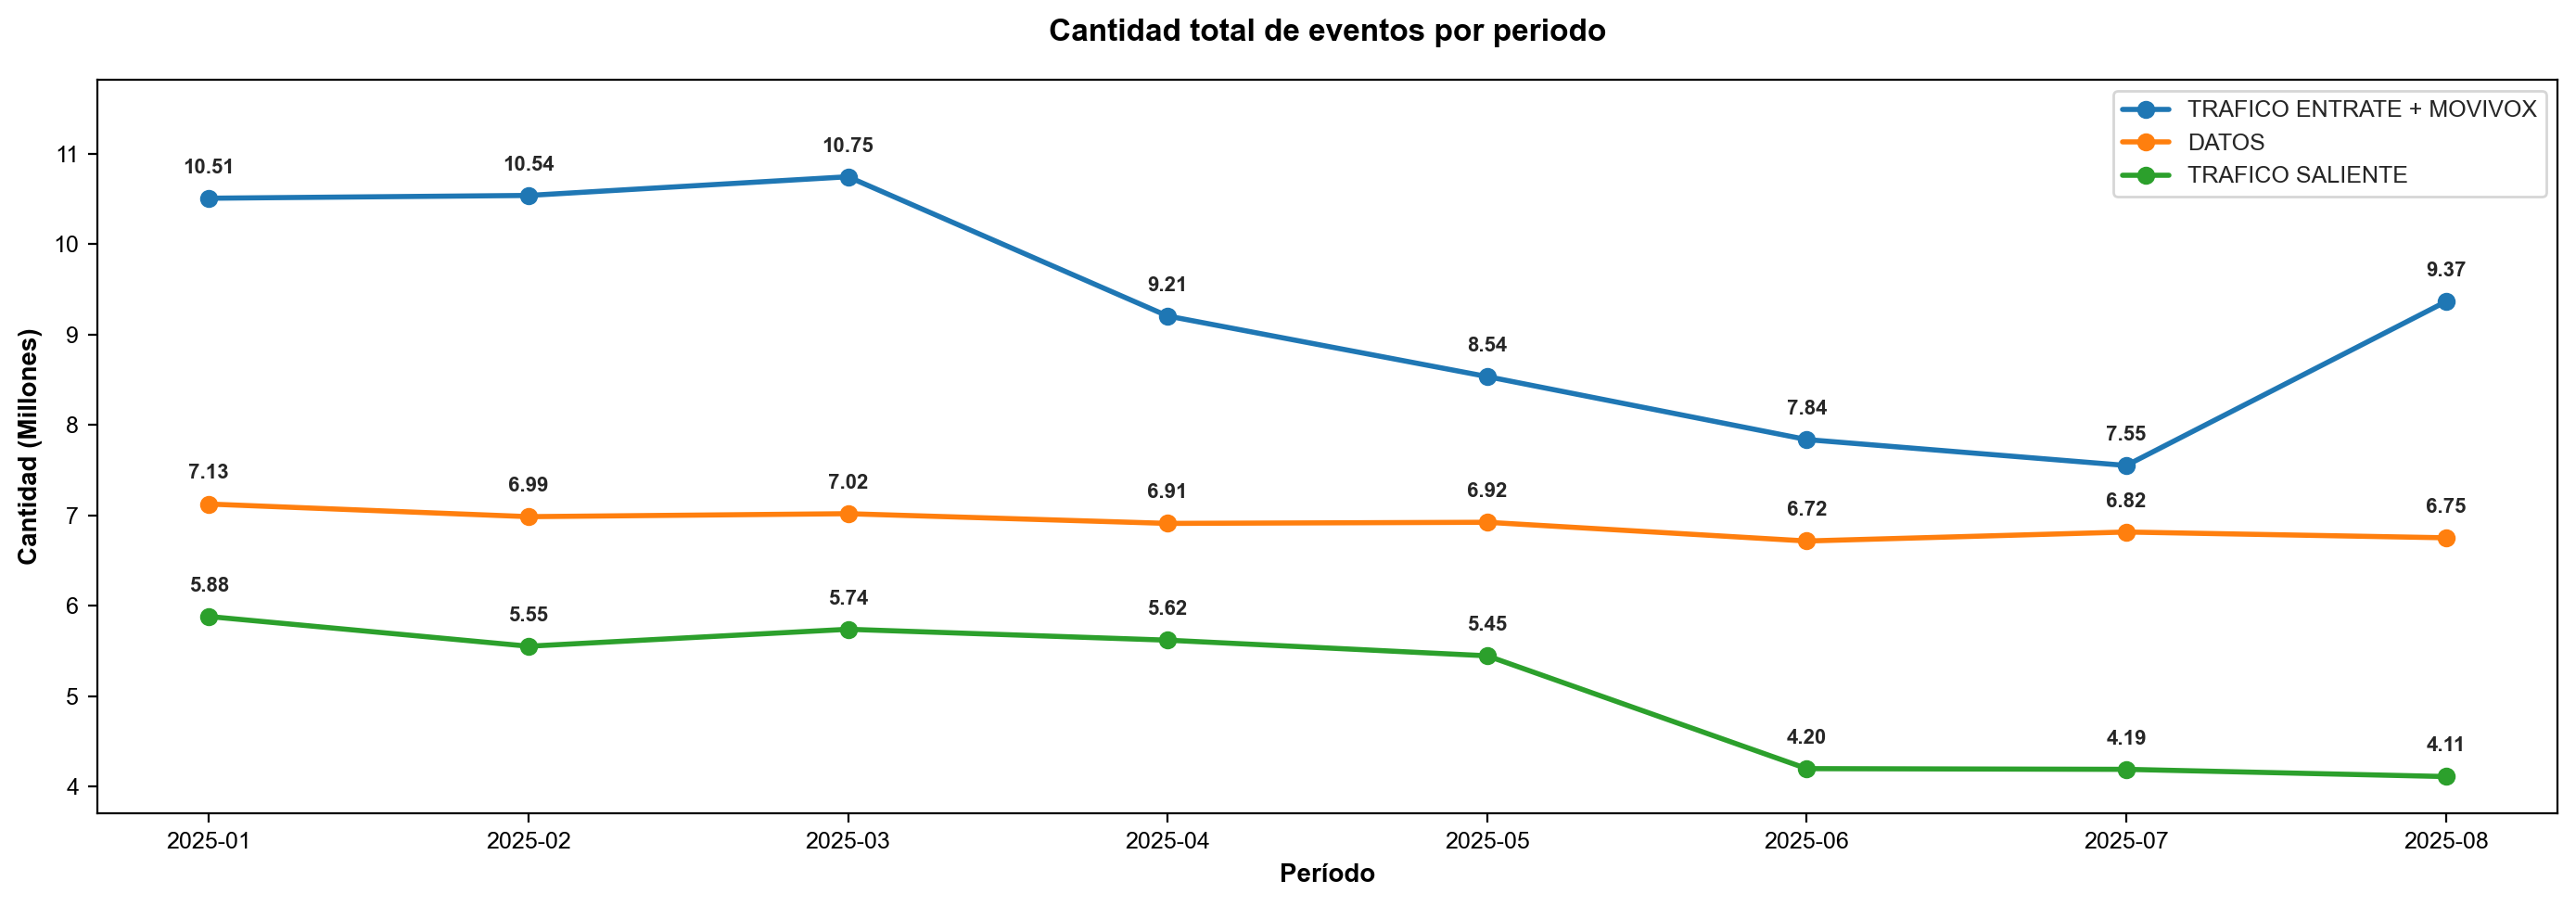
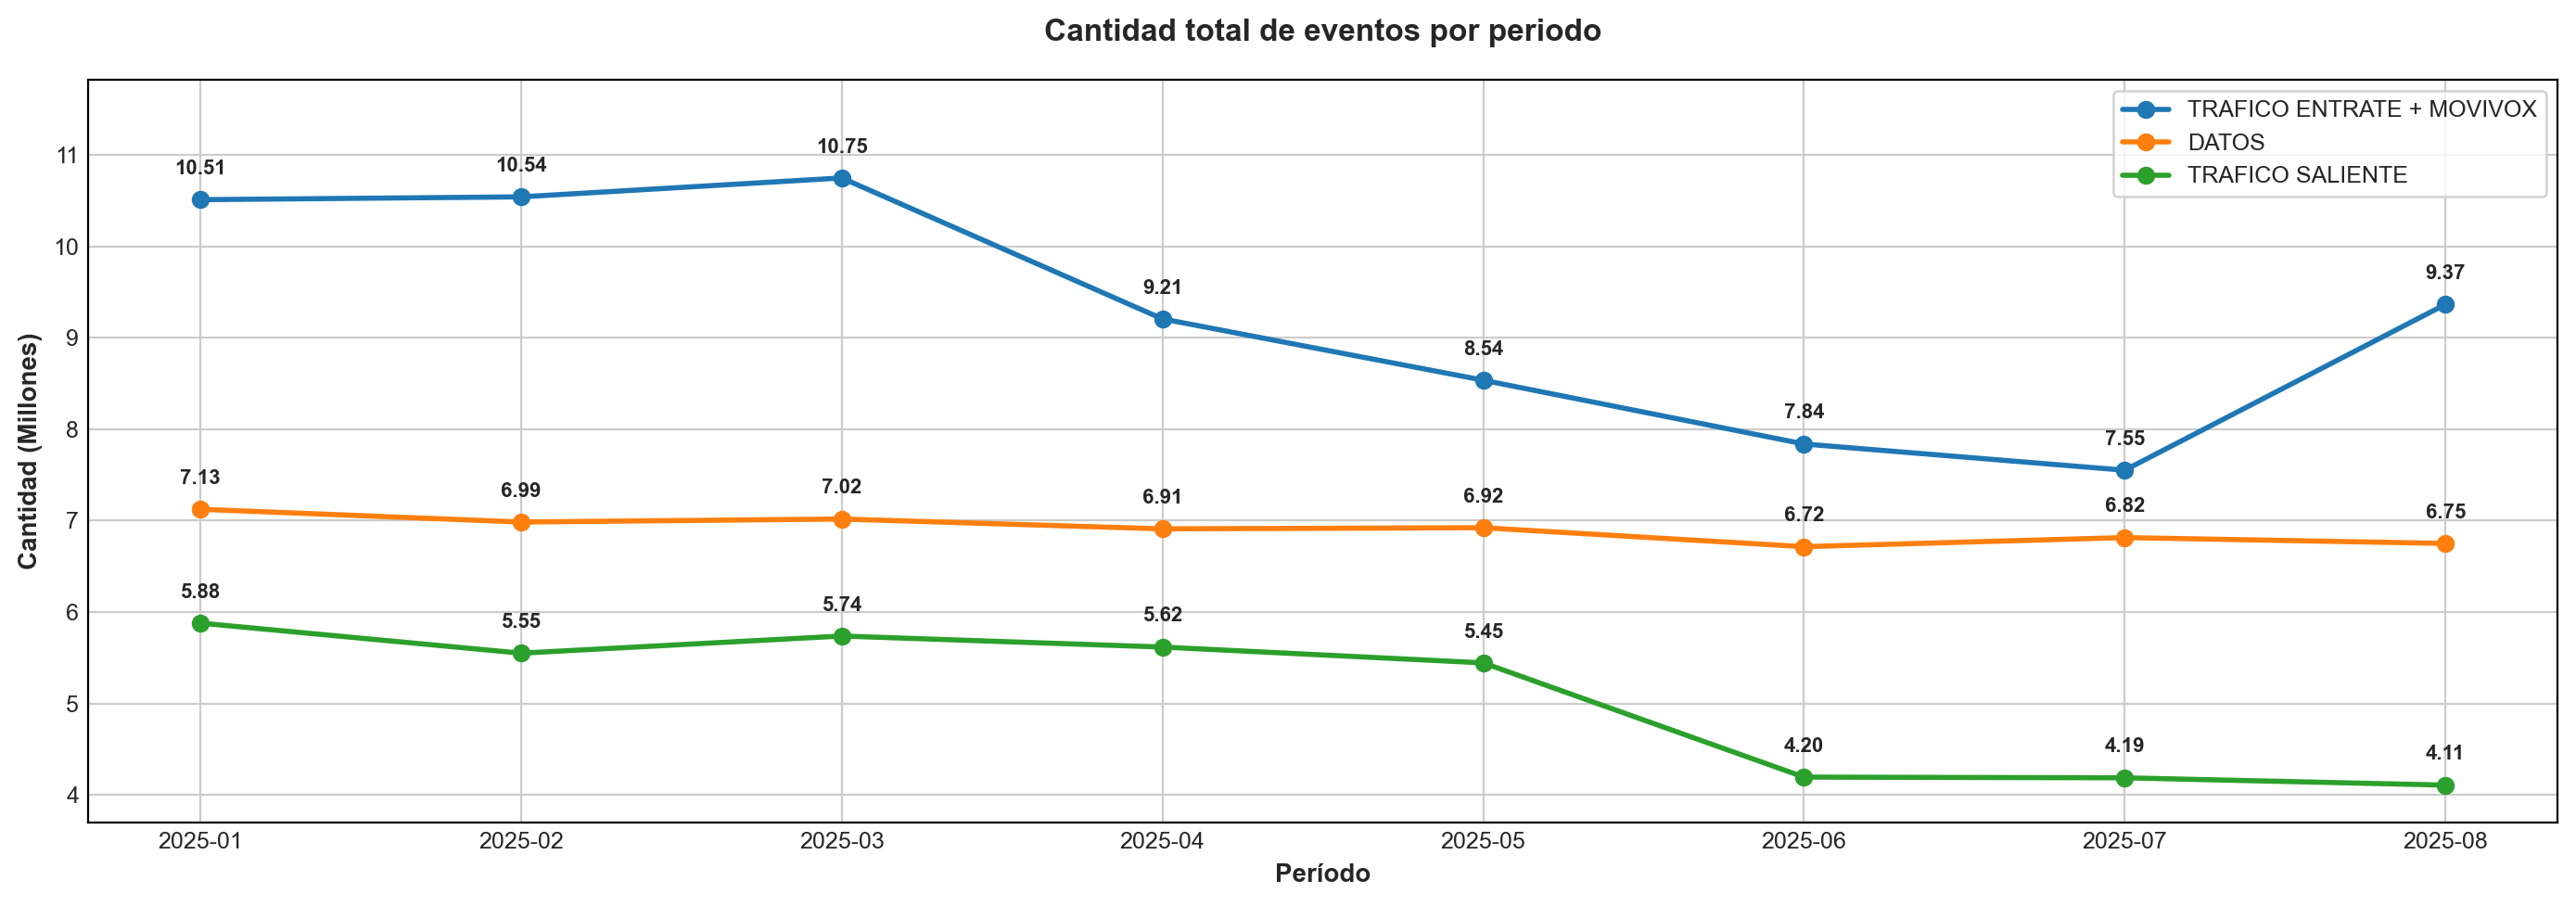
Última versión - 06/04/2026

diff --git a/templates/planta_trfacu.html b/templates/planta_trfacu.html
@@ -48,9 +48,9 @@
 
     <div class="grid-container">        
         <!-- 🔹 Imagen 1 (arriba) -->
-        <div class="grafico-container">
+        <!--*<div class="grafico-container">
             <img src="{{ url_for('planta_trfacu.imagenes', filename=img1) }}" alt="Gráfico 1">
-        </div>
+        </div>-->
         <div class="grafico-container">
             <img src="{{ url_for('planta_trfacu.imagenes', filename=img2) }}" alt="Gráfico 2">
         </div>              

diff --git a/app/monitoreo/monitoreo_reporte.py b/app/monitoreo/monitoreo_reporte.py
@@ -13,41 +13,42 @@ def obtener_reportes():
     
     # Consulta SQL para obtener los reportes
     cursor.execute("""
-    SELECT NOMBRE_REPORTE, INDICADOR_COLOR, FRECUENCIA, NOMBRE_ORIGINAL
-FROM (
-    SELECT DISTINCT 
-        CASE 
-            WHEN NOMBRE_PROCESO_REPO = 'INEI CUADRO 1 - BLOQUE 1' THEN 'INEI1-B01'
-            WHEN NOMBRE_PROCESO_REPO = 'INEI CUADRO 1 - BLOQUE 2' THEN 'INEI1-B03'
-            WHEN NOMBRE_PROCESO_REPO = 'INEI CUADRO 1 - BLOQUE 3' THEN 'INEI1-B03'
-            WHEN NOMBRE_PROCESO_REPO = 'INEI CUADRO 2' THEN 'INEI2-B00'
-            WHEN NOMBRE_PROCESO_REPO = 'INFORME TRAFICO (RT)' THEN 'TRAFI-RT1'
-            ELSE NOMBRE_PROCESO_REPO
-        END AS nombre_reporte,    
-        CASE
-            WHEN EJECUCION = 'EXITO' THEN 'green'
-            WHEN EJECUCION = 'PENDIENTE' THEN 'yellow'
-            WHEN EJECUCION = 'ERROR' THEN 'red'
-            ELSE 'grey'
-        END AS indicador_color,
-        frecuencia_repo AS frecuencia,
-        NOMBRE_PROCESO_REPO AS nombre_original,
-        periodo,
-        MAX(PERIODO) OVER (PARTITION BY 
+        SELECT NOMBRE_REPORTE, INDICADOR_COLOR, FRECUENCIA, NOMBRE_ORIGINAL
+    FROM (
+        SELECT DISTINCT 
             CASE 
-                WHEN NOMBRE_PROCESO_REPO = 'INEI CUADRO 1 - BLOQUE 1' THEN 'INEI1-B01'
-                WHEN NOMBRE_PROCESO_REPO = 'INEI CUADRO 1 - BLOQUE 2' THEN 'INEI1-B03'
-                WHEN NOMBRE_PROCESO_REPO = 'INEI CUADRO 1 - BLOQUE 3' THEN 'INEI1-B03'
-                WHEN NOMBRE_PROCESO_REPO = 'INEI CUADRO 2' THEN 'INEI2-B00'
-                WHEN NOMBRE_PROCESO_REPO = 'INFORME TRAFICO (RT)' THEN 'TRAFI-RT1'
-                ELSE NOMBRE_PROCESO_REPO
-            END, frecuencia_repo) AS MAX_PERIODO
-    FROM CONTROL_MAKO..T_AGR_NORMA_CONTROL
-    WHERE SUBSTRING(PERIODO, 1, 4) IN ('2024', '2025')
-) AS X
-WHERE PERIODO = MAX_PERIODO  -- Solo tomamos el máximo periodo por grupo
-ORDER BY frecuencia, nombre_reporte;
-
+                WHEN A.NOMBRE_PROCESO_REPO = 'INEI CUADRO 1 - BLOQUE 1' THEN 'INEI1-B01'
+                WHEN A.NOMBRE_PROCESO_REPO = 'INEI CUADRO 1 - BLOQUE 2' THEN 'INEI1-B03'
+                WHEN A.NOMBRE_PROCESO_REPO = 'INEI CUADRO 1 - BLOQUE 3' THEN 'INEI1-B03'
+                WHEN A.NOMBRE_PROCESO_REPO = 'INEI CUADRO 2' THEN 'INEI2-B00'
+                WHEN A.NOMBRE_PROCESO_REPO = 'INFORME TRAFICO (RT)' THEN 'TRAFI-RT1'
+                ELSE A.NOMBRE_PROCESO_REPO
+            END AS nombre_reporte,    
+            CASE
+                WHEN A.EJECUCION = 'EXITO' THEN 'green'
+                WHEN A.EJECUCION = 'PENDIENTE' THEN 'yellow'
+                WHEN A.EJECUCION = 'ERROR' THEN 'red'
+                ELSE 'grey'
+            END AS indicador_color,
+            A.frecuencia_repo AS frecuencia,
+            A.NOMBRE_PROCESO_REPO AS nombre_original,
+            A.periodo,
+            MAX(A.PERIODO) OVER (PARTITION BY 
+                CASE 
+                    WHEN A.NOMBRE_PROCESO_REPO = 'INEI CUADRO 1 - BLOQUE 1' THEN 'INEI1-B01'
+                    WHEN A.NOMBRE_PROCESO_REPO = 'INEI CUADRO 1 - BLOQUE 2' THEN 'INEI1-B03'
+                    WHEN A.NOMBRE_PROCESO_REPO = 'INEI CUADRO 1 - BLOQUE 3' THEN 'INEI1-B03'
+                    WHEN A.NOMBRE_PROCESO_REPO = 'INEI CUADRO 2' THEN 'INEI2-B00'
+                    WHEN A.NOMBRE_PROCESO_REPO = 'INFORME TRAFICO (RT)' THEN 'TRAFI-RT1'
+                    ELSE A.NOMBRE_PROCESO_REPO
+                END, A.frecuencia_repo) AS MAX_PERIODO
+        FROM CONTROL_MAKO..T_AGR_NORMA_CONTROL A     
+        LEFT JOIN CONTROL_MAKO..T_CATA_REPORTES_NORMA B ON A.NOMBRE_PROCESO_REPO = B.NOMBRE_PROCESO_REPO
+        WHERE SUBSTRING(A.PERIODO, 1, 2) = '20'
+        AND B.ESTADO = '1'
+    ) AS X
+    WHERE PERIODO = MAX_PERIODO  -- Solo tomamos el máximo periodo por grupo
+    ORDER BY frecuencia, nombre_reporte;
     """)
 
     resultados = cursor.fetchall()
@@ -159,6 +160,7 @@ def detalle_reporte():
         TABLA_HISTORICA
         FROM DESARROLLO_AM..T_CATA_REPORTES_NORMA_COPIA 
         where NOMBRE_PROCESO_REPO = ? 
+        AND estado = '1'
         
     """
     

diff --git a/app/planta/NRIPO_035.py b/app/planta/NRIPO_035.py
@@ -23,7 +23,7 @@ def Query_NRIPO_035_TOT():
     DISTINCT SUBSTRING( ANIO_MES,1,4) ||LPAD(TRIM(MES), 2, '0') AS PERIODO  
     ,sum(LINEAS_EN_SERVICIO) AS LINEAS_EN_SERVICIO, sum(LINEAS_A_SERVICIO_A_3_MES) AS LINEAS_A_SERVICIO_A_3_MES 
     FROM PROD_REGU_NORMA_DATA..T_NRM_NRIPO_035_HIST
-    WHERE ANIO_MES >= '202401'
+    WHERE ANIO_MES >= '202501'
     GROUP BY 1
     ORDER BY 1 asc
     """
@@ -56,7 +56,7 @@ def Query_nripo_33_35_DIF():
                 SUBSTRING(ANIO_MES,1,4) || TRIM(TO_CHAR(MES,'00')) AS PERIODO,
                 SUM(LINEAS_SERVICIO) AS NRIPO_033
             FROM PROD_REGU_NORMA_DATA..T_NRM_NRIPO_033_HIST
-            WHERE ANIO_MES >= '202401'
+            WHERE ANIO_MES >= '202501'
             GROUP BY 1
         ) b
         FULL OUTER JOIN
@@ -67,7 +67,7 @@ def Query_nripo_33_35_DIF():
                 SUM(LINEAS_EN_SERVICIO) AS LINEAS_EN_SERVICIO,
                 SUM(LINEAS_A_SERVICIO_A_3_MES) AS LINEAS_A_SERVICIO_A_3_MES
             FROM PROD_REGU_NORMA_DATA..T_NRM_NRIPO_035_HIST
-            WHERE ANIO_MES >= '202401'
+            WHERE ANIO_MES >= '202501'
             GROUP BY 1
         ) c
         ON b.PERIODO = c.PERIODO
@@ -102,7 +102,7 @@ def Query_nripo_34_35_DIF():
                 SUBSTRING(ANIO_MES,1,4) || TRIM(TO_CHAR(MES,'00')) AS PERIODO,
                 SUM(LINEAS_SERVICIO) AS NRIPO_034
             FROM PROD_REGU_NORMA_DATA..T_NRM_NRIPO_034_HIST
-            WHERE ANIO_MES >= '202401'
+            WHERE ANIO_MES >= '202501'
             GROUP BY 1
         ) a
         FULL OUTER JOIN        
@@ -113,7 +113,7 @@ def Query_nripo_34_35_DIF():
                 SUM(LINEAS_EN_SERVICIO) AS LINEAS_EN_SERVICIO,
                 SUM(LINEAS_A_SERVICIO_A_3_MES) AS LINEAS_A_SERVICIO_A_3_MES
             FROM PROD_REGU_NORMA_DATA..T_NRM_NRIPO_035_HIST
-            WHERE ANIO_MES >= '202401'
+            WHERE ANIO_MES >= '202501'
             GROUP BY 1
         ) c
         ON a.PERIODO = c.PERIODO
@@ -175,23 +175,33 @@ def generar_grafico_nripo_035_TOT(df, img_name="grafico_nripo_035_tot.png"):
 
     # --- Líneas principales ---
     ax1.plot(df["PERIODO"], df["LINEAS_EN_SERVICIO"], marker="o", linewidth=2.5,
-             color="#007bff", label="Líneas en Servicio")
+            color="#007bff", label="Líneas en Servicio")
+
     ax1.plot(df["PERIODO"], df["LINEAS_A_SERVICIO_A_3_MES"], marker="s", linewidth=2.5,
-             color="#ff8c00", label="Líneas a Servicio a 3 Meses")
+            color="#ff8c00", label="Líneas a Servicio a 3 Meses")
 
-    # Etiquetas sobre las líneas
+    # --- Forzar ticks de los 12 meses ---
+    ax1.set_xticks(df["PERIODO"])
+    ax1.set_xticklabels(df["PERIODO"].dt.strftime("%Y%m"))
+
+    # --- Etiquetas sobre las líneas ---
     for _, row in df.iterrows():
-        ax1.text(row["PERIODO"], row["LINEAS_EN_SERVICIO"], f"{row['LINEAS_EN_SERVICIO']:.1f}",
-                 ha="center", va="bottom", fontsize=8, color="#004085", fontweight="bold")
-        ax1.text(row["PERIODO"], row["LINEAS_A_SERVICIO_A_3_MES"], f"{row['LINEAS_A_SERVICIO_A_3_MES']:.1f}",
-                 ha="center", va="bottom", fontsize=8, color="#cc7000", fontweight="bold")
+        ax1.text(row["PERIODO"], row["LINEAS_EN_SERVICIO"],
+                f"{row['LINEAS_EN_SERVICIO']:.1f}",
+                ha="center", va="bottom", fontsize=8,
+                color="#004085", fontweight="bold")
 
-    # --- Configuración eje izquierdo ---
-    ax1.set_xlabel("Período", fontweight="bold")
-    ax1.set_ylabel("Cantidad (Millones)", fontweight="bold", color="#212529")
-    ax1.yaxis.set_major_formatter(mtick.FuncFormatter(lambda x, _: f"{x:.1f}M"))
-    ax1.tick_params(axis="x", rotation=0)
-    ax1.grid(True, linestyle="--", alpha=0.3)
+        ax1.text(row["PERIODO"], row["LINEAS_A_SERVICIO_A_3_MES"],
+                f"{row['LINEAS_A_SERVICIO_A_3_MES']:.1f}",
+                ha="center", va="bottom", fontsize=8,
+                color="#cc7000", fontweight="bold")
+
+        # --- Configuración eje izquierdo ---
+        ax1.set_xlabel("Período", fontweight="bold")
+        ax1.set_ylabel("Cantidad (Millones)", fontweight="bold", color="#212529")
+        ax1.yaxis.set_major_formatter(mtick.FuncFormatter(lambda x, _: f"{x:.1f}M"))
+        ax1.tick_params(axis="x", rotation=0)
+        ax1.grid(True, linestyle="--", alpha=0.3)
 
     # --- Eje derecho: % de diferencia ---
     ax2 = ax1.twinx()
@@ -217,8 +227,9 @@ def generar_grafico_nripo_035_TOT(df, img_name="grafico_nripo_035_tot.png"):
     ax1.legend(
         lines_labels[0] + bars_labels[0],
         lines_labels[1] + bars_labels[1],
-        loc="center left",
-        bbox_to_anchor=(1.15, 0.5),  # mueve la leyenda más a la derecha
+        loc="upper center",
+        bbox_to_anchor=(0.5, -0.18),   # 👈 ABAJO del gráfico
+        ncol=3,
         fontsize=9,
         frameon=True,
         fancybox=True,
@@ -317,8 +328,9 @@ def generar_grafico_nripo_033_vs_035(df, img_name="grafico_nripo_033_vs_035.png"
     ax1.legend(
         lines_labels[0] + bars_labels[0],
         lines_labels[1] + bars_labels[1],
-        loc="center left",
-        bbox_to_anchor=(1.15, 0.5),
+        loc="center",
+        bbox_to_anchor=(0.5, -0.15),   # 👈 leyenda abajo
+        ncol=3,                        # 👈 en columnas
         fontsize=9,
         frameon=True,
         fancybox=True,
@@ -416,8 +428,9 @@ def generar_grafico_nripo_034_vs_035(df, img_name="grafico_nripo_034_vs_035.png"
     ax1.legend(
         lines_labels[0] + bars_labels[0],
         lines_labels[1] + bars_labels[1],
-        loc="center left",
-        bbox_to_anchor=(1.15, 0.5),
+        loc="center",
+        bbox_to_anchor=(0.5, -0.15),   # 👈 leyenda abajo
+        ncol=3,                        # 👈 en columnas
         fontsize=9,
         frameon=True,
         fancybox=True,

diff --git a/app/planta/NRIPO_033_034.py b/app/planta/NRIPO_033_034.py
@@ -24,7 +24,7 @@ def Query_NRIPO_033():
         MODALIDAD,
         sum(LINEAS_SERVICIO) AS CANTIDAD 
     FROM PROD_REGU_NORMA_DATA..T_NRM_NRIPO_033_HIST
-    WHERE ANIO_MES >= '202401'
+    WHERE ANIO_MES >= '202501'
     GROUP BY 1,2
     ORDER BY 1 desc
     """
@@ -72,7 +72,7 @@ def Query_NRIPO_034():
     SELECT 
     SUBSTRING( ANIO_MES,1,4) || trim(TO_char(MES,'00')) AS PERIODO,MODALIDAD ,sum(LINEAS_SERVICIO) AS CANTIDAD 
     FROM PROD_REGU_NORMA_DATA..T_NRM_NRIPO_034_HIST
-    WHERE ANIO_MES >= '202401'
+    WHERE ANIO_MES >= '202501'
     GROUP BY 1,2
     ORDER BY 1 desc;
     """
@@ -193,6 +193,12 @@ def generar_grafico_nripo_033(df, img_name="grafico_nripo_033.png"):
     return img_name
 
 
+COLORES_TIPO = {
+    "Prepago":  "#ff8c00",  # naranja
+    "Postpago": "#007bff",  # azul
+    "Control":  "#28a745",  # verde
+    "Total":    "#6c757d"   # gris
+}
 
 def generar_grafico_nripo_033_TOT(df, img_name="grafico_nripo_033_tot.png"):
     df = pd.DataFrame(df)
@@ -224,6 +230,7 @@ def generar_grafico_nripo_033_TOT(df, img_name="grafico_nripo_033_tot.png"):
         df["CANTIDAD"],
         marker="o",
         linestyle="-",
+        color=COLORES_TIPO["Total"],
         label="Total"
     )
 
@@ -333,7 +340,7 @@ def generar_grafico_nripo_034(df, img_name="grafico_nripo_034.png"):
     ax.grid(False)
 
     # --- Título y leyenda ---
-    plt.title("Líneas móviles en servicio por modalidad", fontweight="bold")
+    plt.title("Líneas móviles en servicio a 3 meses", fontweight="bold")
     ax.legend(loc="best", fontsize=8, frameon=True)
 
     plt.tight_layout()
@@ -381,6 +388,7 @@ def generar_grafico_nripo_034_TOT(df, img_name="grafico_nripo_034_tot.png"):
         df["CANTIDAD"],
         marker="o",
         linestyle="-",
+        color=COLORES_TIPO["Total"],
         label="Total"
     )
 

diff --git a/app/planta/planta_trfacu.py b/app/planta/planta_trfacu.py
@@ -225,11 +225,19 @@ def generar_grafico_trfacuv2(df, img_name="grafico_trfacuv2.png"):
         spine.set_color("black")
         spine.set_linewidth(0.8)
 
-    # --- Título y leyenda ---
+   # --- Título y leyenda ---
     plt.title("Cantidad total de eventos por periodo", fontweight="bold", pad=15)
-    ax.legend(loc="best", fontsize=9, frameon=True)
+
+    ax.legend(
+        loc="upper center",
+        bbox_to_anchor=(0.5, -0.15),
+        ncol=2,           # ajusta según cuántas series tengas
+        fontsize=9,
+        frameon=True
+    )
 
     plt.tight_layout()
+
 
     # --- Guardar imagen ---
     img_dir = os.path.join(os.getcwd(), "static/img")

diff --git a/app/notificaciones/notificaciones.py b/app/notificaciones/notificaciones.py
@@ -34,7 +34,9 @@ def obtener_notificaciones():
     ) AS max_periodos 
         ON t.NOMBRE_PROCESO_REPO = max_periodos.NOMBRE_PROCESO_REPO 
        AND t.PERIODO = max_periodos.MAX_PERIODO
-    WHERE t.EJECUCION_INPUT = 'PENDIENTE' AND (t.EJECUCION <> 'EXITO' OR t.ESTADO_REPORTE IS null)
+    WHERE (t.EJECUCION_INPUT <> 'EXITO' OR 
+        t.EJECUCION <> 'EXITO' OR 
+        t.ESTADO_REPORTE IS NULL) 
       AND t.PERIODO >= '202502'
     ORDER BY t.PERIODO DESC , t.NOMBRE_PROCESO_REPO ASC;
     """

diff --git a/app/planta/planta_mtc.py b/app/planta/planta_mtc.py
@@ -22,7 +22,7 @@ def Query_MTC_Agrupado():
         TRANS_DT AS PERIODO,
         COUNT(*) AS CANTIDAD 
     FROM PROD_REGU_INPUT_DATA..T_INP_PLT_MTC
-    WHERE TRANS_DT >= '2024-01-01'
+    WHERE TRANS_DT >= '2025-01-01'
     AND ESTADO1 = 'A'
     GROUP BY 1
     ORDER BY 1 DESC
@@ -49,7 +49,7 @@ def Query_MTC_Estado():
         CASE WHEN PRODUCTOS IN ('CONTROL','CONTRATO') THEN 'POSTPAGO' ELSE 'PREPAGO' END AS MODALIDAD,
         COUNT(*) AS CANTIDAD 
     FROM PROD_REGU_INPUT_DATA..T_INP_PLT_MTC
-    WHERE TRANS_DT >= '2024-01-01'
+    WHERE TRANS_DT >= '2025-01-01'
     AND ESTADO1 = 'A'
     AND PRODUCTOS IS NOT NULL 
     and LENGTH (productos) <> 0

diff --git a/app/calendario/calendario.py b/app/calendario/calendario.py
@@ -42,6 +42,7 @@ CASE
 		TO_CHAR(CURRENT_DATE, 'YYYY') || LPAD( SUBSTRING( DIA_EJECUCION_REPO,3,2) + 9 ,2, '0') || SUBSTRING( DIA_EJECUCION_REPO,1,2)
     	END AS CAMPO_RESULTADO
 FROM CONTROL_MAKO..T_CATA_REPORTES_NORMA
+WHERE TIPO_REPO <> 'RENTESEG'
 UNION ALL
 SELECT 
     CASE